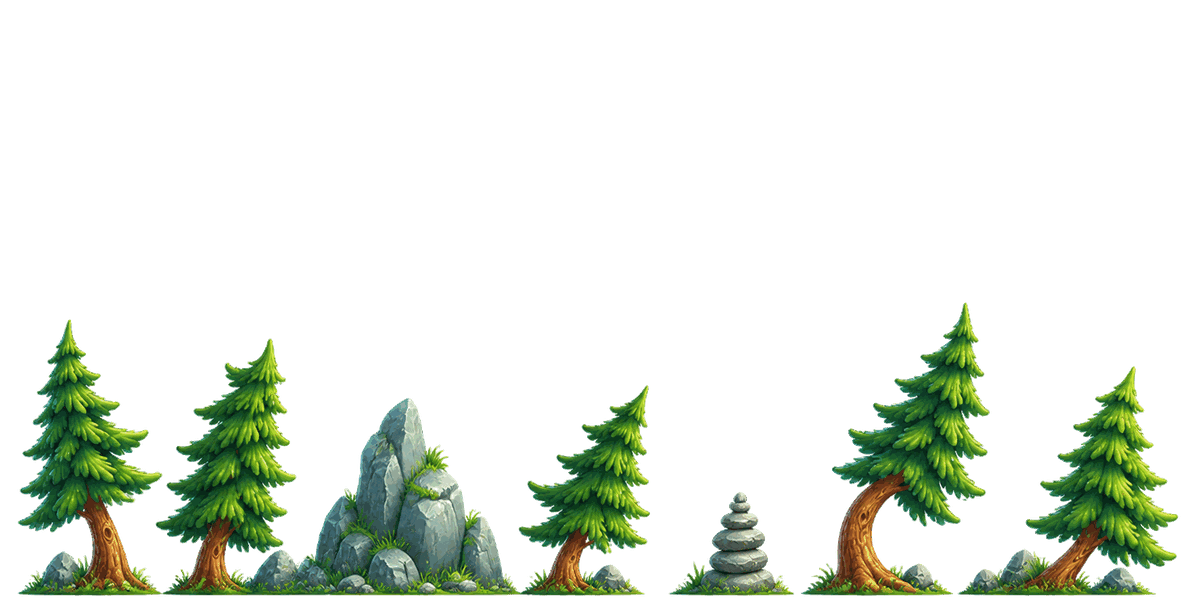
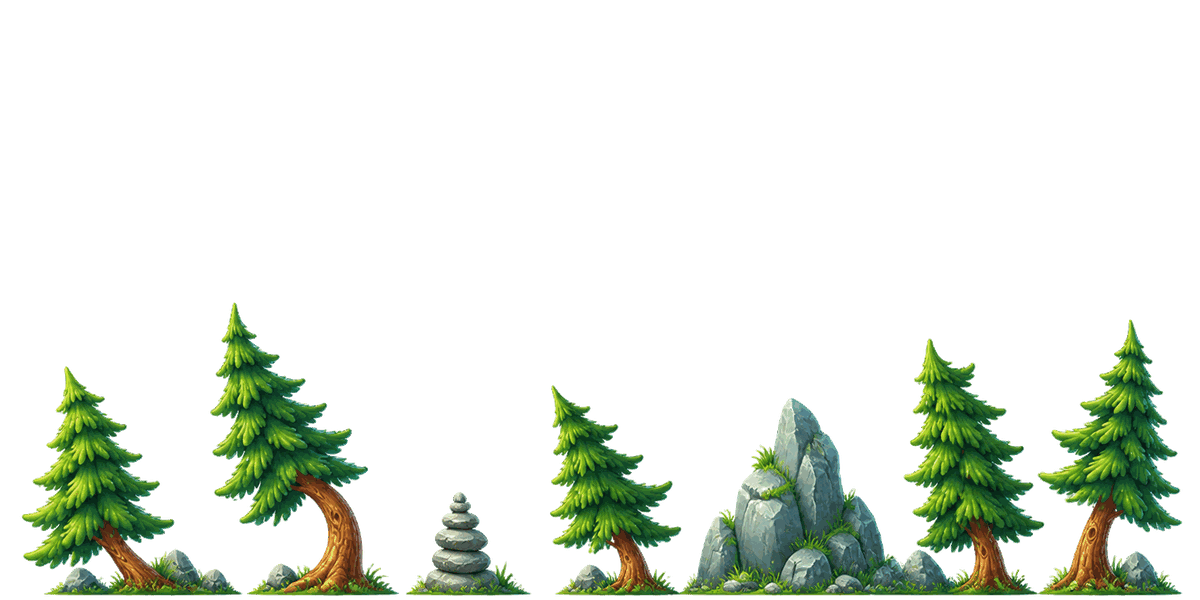
Turn the mountain trees to lean uphill
Every bent tree in the mountain pack arrived leaning left, which reads as
being blown back down the hill rather than climbing it. The two decor
trees and the mid treeline are mirrored in place; the cairns are
symmetrical and untouched, and the field and woodland trees measured
upright so neither was changed.

The treeline band also needed `mirror: false`. Flipping alternate tiles is
only there to hide a seam, and it was sending every second pine back the
other way - so half the treeline leaned each way whichever direction the
art faced. The tiles butt cleanly without it: the crop sits on the
content's own edges and no tree is cut.

Originals in _source/mountain_raw/preflip_*.

Changed region(s): [[0.0, 0.51, 0.9867, 1.0]]

diff --git a/game.js b/game.js
@@ -479,11 +479,16 @@ const THEMES = {
       // overhead for the first stage and gone below the path by the last.
       { img: "clouds", h: 78, parallax: 0.16, offset: -80, climb: 210,
         src: { srcY0: 109, srcY1: 341 } },
-      // Cropped to the treeline on all four sides: the bare margins left a
-      // gap of sky at every tile seam, and the bottom row is a ghost of
-      // half-transparent green.
-      { img: "treesMid", h: 52, parallax: 0.22,
-        src: { srcX0: 15, srcX1: 1181, srcY0: 300, srcY1: 597 } },
+      /* Cropped to the treeline on all four sides: the bare margins left a
+       * gap of sky at every tile seam, and the bottom row is a ghost of
+       * half-transparent green.
+       *
+       * Not mirrored. Every pine in this strip leans the same way, and
+       * flipping alternate tiles - which is only there to hide a seam -
+       * sent half of them leaning back down the mountain.
+       */
+      { img: "treesMid", h: 52, parallax: 0.22, mirror: false,
+        src: { srcX0: 19, srcX1: 1185, srcY0: 300, srcY1: 597 } },
     ],
     // Thinner and higher than the woodland: D major pentatonic.
     music: {
@@ -3278,7 +3283,7 @@ class Game {
       // overhead and end up below the path.
       const drop = (band.offset || 0) + (band.climb || 0) * climbed;
       this.drawTiledLayer(images[band.img], band.h, bandBottom + drop,
-        this.scroll * band.parallax, true, band.src);
+        this.scroll * band.parallax, band.mirror !== false, band.src);
     }
 
     this.drawDecorStrips();

diff --git a/index.html b/index.html
@@ -12,7 +12,7 @@
   <meta name="mobile-web-app-capable" content="yes">
   <meta name="apple-mobile-web-app-status-bar-style" content="black-translucent">
   <meta name="apple-mobile-web-app-title" content="Fox Runner">
-  <link rel="stylesheet" href="style.css?v=70">
+  <link rel="stylesheet" href="style.css?v=71">
 </head>
 <body>
   <main class="game-wrap">
@@ -31,7 +31,7 @@
     </form>
   </main>
   <div class="rotate-hint">Rotate your phone to play</div>
-  <script src="game.js?v=70"></script>
+  <script src="game.js?v=71"></script>
   <script>
     // Offline support + installability (needs HTTPS or localhost).
     if ("serviceWorker" in navigator) {

diff --git a/sw.js b/sw.js
@@ -7,8 +7,8 @@
 //    content under the same name, so this cache survives shell bumps and
 //    phones never re-download the artwork. Bump ART_VERSION only if an
 //    asset's content actually changes under an existing filename.
-const SHELL_VERSION = "v38";
-const ART_VERSION = "v6";
+const SHELL_VERSION = "v39";
+const ART_VERSION = "v7";
 const SHELL_CACHE = `fox-runner-shell-${SHELL_VERSION}`;
 const ART_CACHE = `fox-runner-art-${ART_VERSION}`;
 const KEEP = [SHELL_CACHE, ART_CACHE];

diff --git a/assets/themes/mountain/README.md b/assets/themes/mountain/README.md
@@ -32,6 +32,16 @@ The ledge is intended to replace the normal grass and dirt layers for this theme
 - `scenery/trees/tree_02.png` - bare weathered snag
 - `scenery/trees/tree_03.png` - stone cairn
 
+Everything that leans is drawn leaning RIGHT, the way the fox is running:
+the pines in `scenery/trees_mid.png` and the two bent trees above all
+arrived leaning left, which read as being blown back down the mountain
+rather than climbing it. They were mirrored in place (originals kept in
+`_source/mountain_raw/preflip_*`), and the treeline band is drawn with
+`mirror: false` - the alternate-tile flip that hides a seam was sending
+every second tree back the other way. The cairns are symmetrical and are
+left alone. The field and woodland trees are all upright, so neither was
+touched.
+
 ## Roles in the engine
 
 The engine's obstacle slots keep their level-one names, so the difficulty
